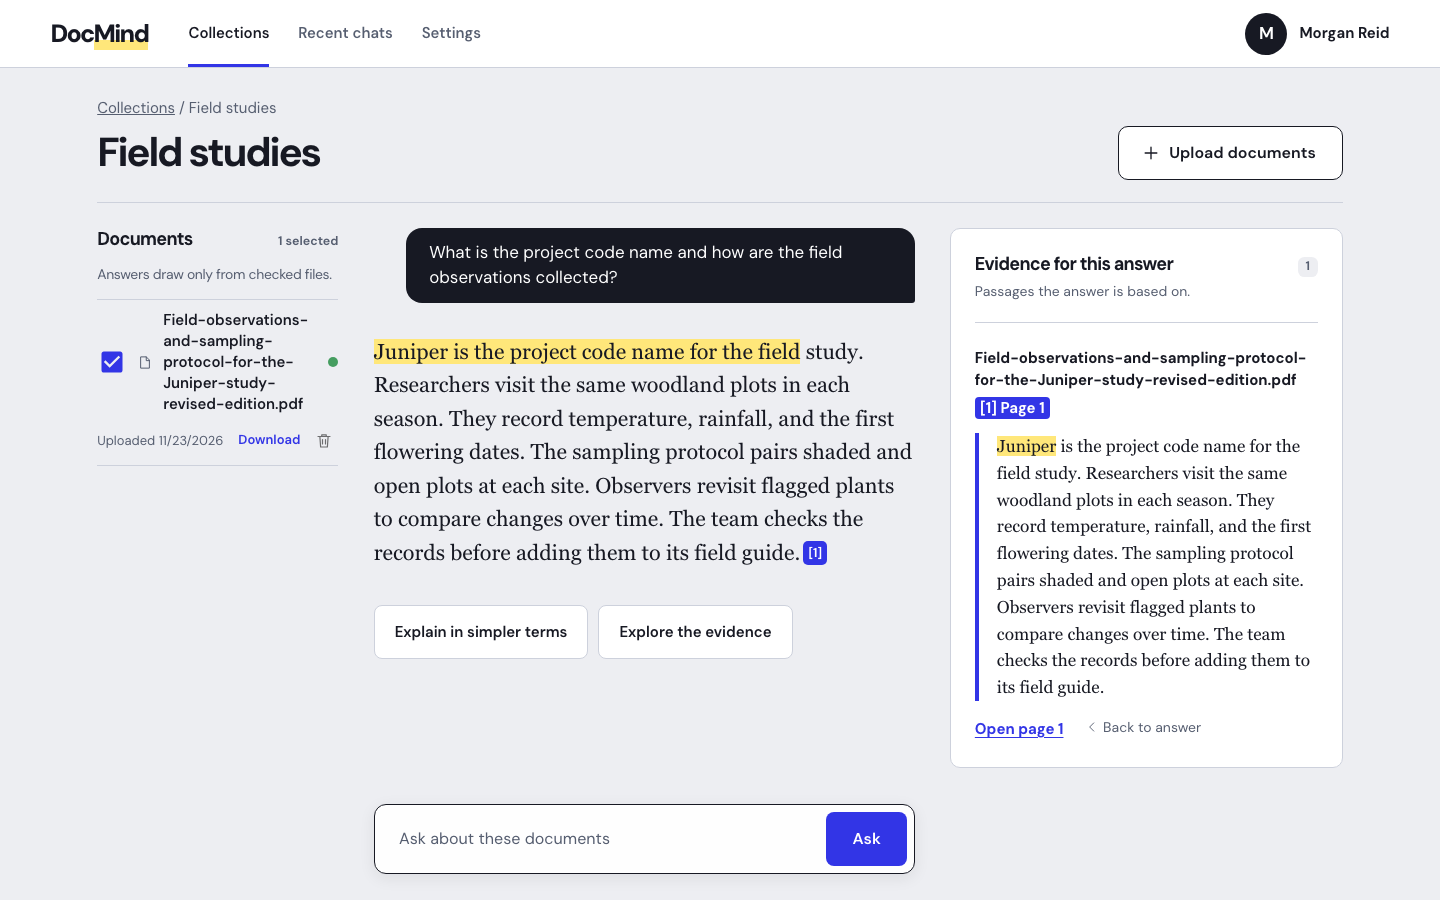
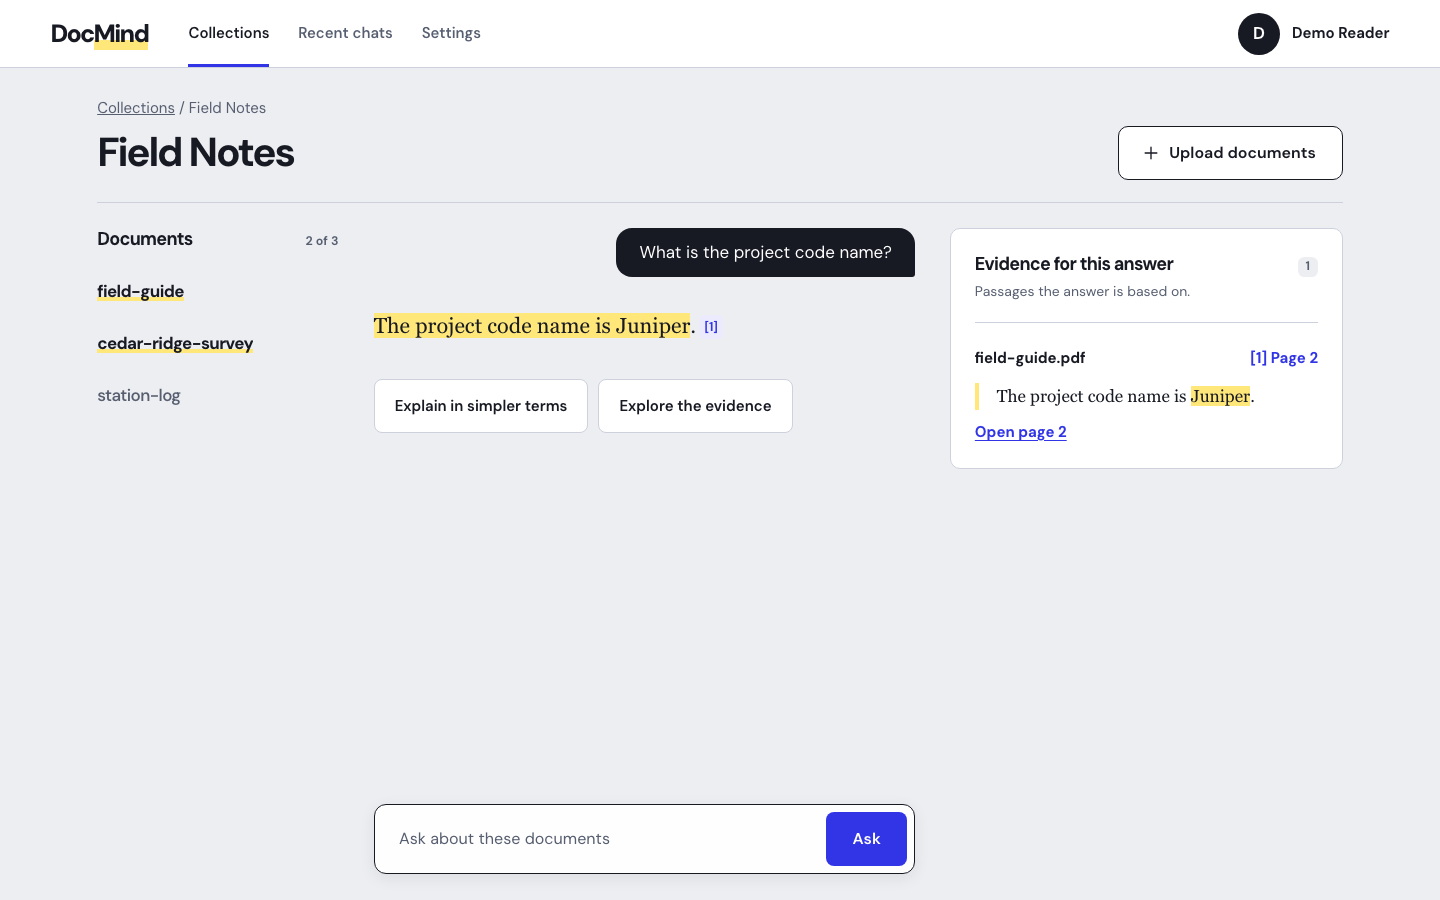
Update README chat screenshot and document selection walkthrough

diff --git a/README.md b/README.md
@@ -2,7 +2,7 @@
 
 DocMind lets you ask questions about PDFs and check the answers against the original pages. Organize files into a collection, choose which documents to search, and follow an inline citation to its supporting passage or PDF page.
 
-![DocMind chat with a selected citation and its supporting passage](docs/screenshots/chat.png)
+![Field Notes chat with two of three PDFs selected and an answer citing page 2 of field-guide.pdf](docs/screenshots/chat.png)
 
 [Collections dashboard](docs/screenshots/collections.png) · [Mobile evidence panel](docs/screenshots/mobile-evidence.png) · [Login](docs/screenshots/login.png) · [Register](docs/screenshots/register.png) · [API reference](docs/api.md)
 
@@ -33,7 +33,7 @@ After changing the Gemini key or answer model, run `docker compose up -d --no-de
 ### Try a question with a known answer
 
 1. Create a collection, open it, and choose **Upload documents**. Use the included [two-page field guide](chatbot-service/tests/field-guide.pdf).
-2. When the PDF shows **Ready**, leave it checked and ask **“What is the project code name?”**
+2. Once indexing finishes, the filename appears with a yellow underline to show it is selected. Click a filename to include or exclude it. With **field-guide** selected, ask **“What is the project code name?”**
 3. The expected answer is **Juniper**. Click the citation to read the passage, then choose **Open page 2** to check it in the PDF.
 
 Each upload accepts one text-based PDF up to 10 MiB. Scanned pages need selectable text for indexing. Passage text and filenames go to Gemini for embedding. When you ask a question, Gemini receives the question and retrieved passages from the selected PDFs.
